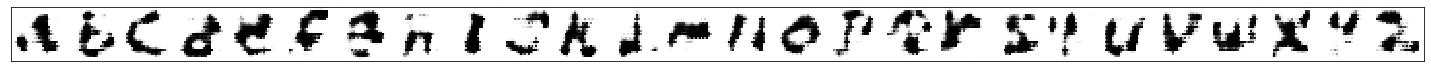
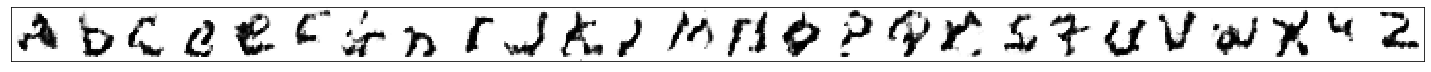
Working for all MNIST versions. Need to rerun EMNIST 100 due to disconnection error.

Changed region(s): [[0.0, 0.1389, 1.0, 0.8056]]

diff --git a/mnist-gan.py b/mnist-gan.py
@@ -8,7 +8,7 @@
 
 import numpy as np
 from tensorflow.keras.models import Sequential, clone_model, Model
-from tensorflow.keras.layers import InputLayer, Conv2D, LeakyReLU, Dropout, Flatten, Dense, Reshape, Conv2DTranspose, Input, concatenate
+from tensorflow.keras.layers import InputLayer, Conv2D, LeakyReLU, Dropout, Flatten, Dense, Reshape, Conv2DTranspose, Input, concatenate, BatchNormalization
 from tensorflow.keras.optimizers import Adam
 from tensorflow.keras.initializers import RandomNormal
 import matplotlib.pyplot as mp
@@ -27,9 +27,10 @@ elif dataset == 'emnist':
 # %% CONSTANTS
 ################################################################################
 
-EPOCHS = 100
+EPOCHS = 5
 BATCH_SIZE = 128
 IMG_SHP = (28, 28, 1)
+CAT_SHP = 26
 LAT_SHP = 100
 
 ################################################################################
@@ -37,22 +38,64 @@ LAT_SHP = 100
 ################################################################################
 
 def build_descriminator(IMG_SHP, CAT_SHP):
+
+    ##### INPUT IMAGE
+    input = Input(IMG_SHP)
+
+    ##### CONV2D LAYER
+    net = Conv2D(64, (3,3), strides=(2, 2), padding='same')(input)
+    net = LeakyReLU(alpha=0.2)(net)
+    net = Dropout(0.4)(net)
+
+    ##### CONV2D LAYER
+    net = Conv2D(64, (3,3), strides=(2, 2), padding='same')(net)
+    net = LeakyReLU(alpha=0.2)(net)
+    net = Dropout(0.4)(net)
+
+    ##### TO DENSE
+    net = Flatten()(net)
+
+    ##### PREDICT TRUE/FALSE
+    out1 = Dense(1, activation='sigmoid')(net)
+    
+    ##### PRECIT DIGIT
+    out2 = Dense(CAT_SHP, activation='softmax')(net)
+
+    """
     ##### KERNEL INIT DISTRIBUTION
     init = RandomNormal(stddev=0.02)
+
     ##### INPUT IMAGE
-    input1 = Input(IMG_SHP)
-    layer1 = Conv2D(64, (3,3), strides=(2, 2), padding='same', kernel_initializer=init)(input1)
-    layer2 = LeakyReLU(alpha=0.2)(layer1)
-    layer3 = Dropout(0.4)(layer2)
-    layer4 = Conv2D(64, (3,3), strides=(2, 2), padding='same', kernel_initializer=init)(layer3)
-    layer5 = LeakyReLU(alpha=0.2)(layer4)
-    layer6 = Dropout(0.4)(layer5)
-    layer7 = Flatten()(layer6)
+    input = Input(IMG_SHP)
+
+    ##### CONV2D LAYER
+    net = Conv2D(128, (3,3), strides=(1, 1), padding='same', kernel_initializer=init)(input)
+    net = BatchNormalization(momentum=0.9)(net)
+    net = LeakyReLU(alpha=0.1)(net)
+
+    ##### CONV2D LAYER
+    net = Conv2D(128, (4,4), strides=(2, 2), padding='same', kernel_initializer=init)(net)
+    net = BatchNormalization(momentum=0.9)(net)
+    net = LeakyReLU(alpha=0.1)(net)
+
+    ##### CONV2D LAYER
+    net = Conv2D(128, (4,4), strides=(2, 2), padding='same', kernel_initializer=init)(net)
+    net = BatchNormalization(momentum=0.9)(net)
+    net = LeakyReLU(alpha=0.1)(net)
+
+    ##### TO DENSE
+    net = Flatten()(net)
+    net = Dropout(0.4)(net)
+
     ##### OUTPUT TRUE/FALSE
-    out1 = Dense(1, activation='sigmoid')(layer7)
+    out1 = Dense(1, activation='sigmoid')(net)
+
     ##### OUTPUT DIGIT ONE-HOT
-    out2 = Dense(CAT_SHP, activation='softmax')(layer7)
-    model = Model(inputs = input1, outputs = [out1, out2])
+    out2 = Dense(CAT_SHP, activation='softmax')(net)
+    """
+
+    ##### BUILD MODEL AND COMPILE
+    model = Model(inputs = input, outputs = [out1, out2])
     model.compile(loss=['binary_crossentropy', 'categorical_crossentropy'], optimizer=Adam(lr=0.0002, beta_1=0.5))
     return model
 
@@ -61,24 +104,85 @@ def build_descriminator(IMG_SHP, CAT_SHP):
 ################################################################################
 
 def build_generator(LAT_SHP, CAT_SHP):
-    ##### KERNEL INIT DISTRIBUTION
-    init = RandomNormal(stddev=0.02)
+
+    """
     ##### INPUT DIGIT ONE-HOT
     input1 = Input(CAT_SHP)
+
     ##### INPUT RANDOM LATENT NOISE
     input2 = Input(LAT_SHP-CAT_SHP)
+
+    ##### COMBINE RANDOM AND ONE-HOT INPUTS
     inputs = concatenate([input1, input2], axis=-1)
-    layer1 = Dense(7*7*128, kernel_initializer=init)(inputs)
-    layer2 = LeakyReLU(alpha=0.2)(layer1)
-    layer3 = Reshape((7, 7, 128))(layer2)
-    layer4 = Conv2DTranspose(128, (4,4), strides=(2,2), padding='same', kernel_initializer=init)(layer3)
-    layer5 = LeakyReLU(alpha=0.2)(layer4)
-    layer6 = Conv2DTranspose(128, (4,4), strides=(2,2), padding='same', kernel_initializer=init)(layer5)
-    layer7 = LeakyReLU(alpha=0.2)(layer6)
+
+    ##### DENSE LAYER
+    net = Dense(7*7*128)(inputs)
+    net = LeakyReLU(alpha=0.2)(net)
+
+    ##### TO CONV2D
+    net = Reshape((7, 7, 128))(net)
+
+    ##### CONV2D.T LAYER
+    net = Conv2DTranspose(128, (4,4), strides=(2,2), padding='same')(net)
+    net = LeakyReLU(alpha=0.2)(net)
+
+    ##### CONV2D.T LAYER
+    net = Conv2DTranspose(128, (4,4), strides=(2,2), padding='same')(net)
+    net = LeakyReLU(alpha=0.2)(net)
+
     ##### OUTPUT IMAGE
-    output = Conv2D(1, (7,7), activation='sigmoid', padding='same', kernel_initializer=init)(layer7)
+    output = Conv2D(1, (7,7), activation='sigmoid', padding='same')(net)
+    """
+
+    ##### KERNEL INIT DISTRIBUTION
+    init = RandomNormal(stddev=0.02)
+
+    ##### INPUT DIGIT ONE-HOT
+    input1 = Input(CAT_SHP)
+
+    ##### INPUT RANDOM LATENT NOISE
+    input2 = Input(LAT_SHP-CAT_SHP)
+
+    ##### COMBINE RANDOM AND ONE-HOT INPUTS
+    inputs = concatenate([input1, input2], axis=-1)
+
+    ##### DENSE LAYER
+    net = Dense(7*7*128, kernel_initializer=init, activation='relu')(inputs)
+    net = BatchNormalization(momentum=0.9)(net)
+    net = LeakyReLU(alpha=0.1)(net)
+
+    ##### TO CONV2D
+    net = Reshape((7, 7, 128))(net)
+    net = Conv2D(128, (5,5), strides=(1, 1), padding='same', kernel_initializer=init)(net)
+    net = BatchNormalization(momentum=0.9)(net)
+    net = LeakyReLU(alpha=0.1)(net)
+
+    ##### CONV2D.T LAYER
+    net = Conv2DTranspose(128, (4,4), strides=(2,2), padding='same', kernel_initializer=init)(net)
+    net = BatchNormalization(momentum=0.9)(net)
+    net = LeakyReLU(alpha=0.1)(net)
+
+    ##### CONV2D.T LAYER
+    net = Conv2DTranspose(128, (4,4), strides=(2,2), padding='same', kernel_initializer=init)(net)
+    net = BatchNormalization(momentum=0.9)(net)
+    net = LeakyReLU(alpha=0.1)(net)
+
+    ##### CONV2D LAYER
+    net = Conv2D(128, (5,5), strides=(1, 1), padding='same', kernel_initializer=init)(net)
+    net = BatchNormalization(momentum=0.9)(net)
+    net = LeakyReLU(alpha=0.1)(net)
+
+    ##### CONV2D LAYER
+    net = Conv2D(128, (5,5), strides=(1, 1), padding='same', kernel_initializer=init)(net)
+    net = BatchNormalization(momentum=0.9)(net)
+    net = LeakyReLU(alpha=0.1)(net)
+
+    ##### OUTPUT IMAGE
+    output = Conv2D(1, (7,7), activation='sigmoid', padding='same', kernel_initializer=init)(net)
+
+    ##### BUILD MODEL (COMPILATION IN GAN MODEL)
     model = Model(inputs = [input1, input2], outputs = output)
-    ##### NO COMPILATION UNTIL COMBINED INTO GAN
+
     return model
 
 ################################################################################
@@ -100,6 +204,14 @@ def build_gan(d_model, g_model):
 ################################################################################
 
 loss = []
+
+################################################################################
+# %% BUILD MODELS
+################################################################################
+
+d_model = build_descriminator(IMG_SHP, CAT_SHP)
+g_model = build_generator(LAT_SHP, CAT_SHP)
+gan_model = build_gan(d_model, g_model)
 
 ################################################################################
 # %% RUN THROUGH EPOCHS
@@ -136,14 +248,6 @@ for epoch in range(EPOCHS):
 
     ##### CALCULATE NUMBER OF BATCHES
     BATCHES = int(len(X)/BATCH_SIZE)
-
-    ##### GET NUMBER OF CLASSES
-    CAT_SHP = int(y.max()+1)
-
-    ##### BUILD MODELS
-    d_model = build_descriminator(IMG_SHP, CAT_SHP)
-    g_model = build_generator(LAT_SHP, CAT_SHP)
-    gan_model = build_gan(d_model, g_model)
 
     ################################################################################
     # RUN THROUGH BATCHES
@@ -224,7 +328,8 @@ for epoch in range(EPOCHS):
         ##### GET WEIGHTS FROM LAST TRAINING STEP
         g_loss, g_acc, _ = gan_model.train_on_batch([X_in_p, X_in_r], [z_gan, y_gan_oh])
 
-        print(f'd_loss: {d_loss:.3f}, g_loss: {g_loss:.3f}')
+        if batch%50==0:
+            print(f'd_loss: {d_loss:.3f}, g_loss: {g_loss:.3f}')
 
         loss.append([d_loss, g_loss])
 

diff --git a/matlab/loader.py b/matlab/loader.py
@@ -12,7 +12,7 @@ from scipy.io import loadmat
 def load_data():
     ##### LOAD REAL EMNIST LETTERS DATA
     data = loadmat('matlab/emnist-letters.mat')
-    #data = loadmat('drive/My Drive/Data/emnist-digits.mat')
+    #data = loadmat('drive/My Drive/Data/emnist-letters.mat')
     X_train = data['dataset'][0][0][0][0][0][0]
     y_train = data['dataset'][0][0][0][0][0][1]
     X_test = data['dataset'][0][0][1][0][0][0]

diff --git a/README.md b/README.md
@@ -62,7 +62,7 @@ The E-MNIST dataset is the original dataset the MNIST-digits set was originally 
 
 ![loss history](img/emnist-loss.png "loss history for 30 epochs")
 
-real data:
+real data (random order):
 ![real data](img/emnist-real.png)
 
 generated data after 5/30/100 epochs:
